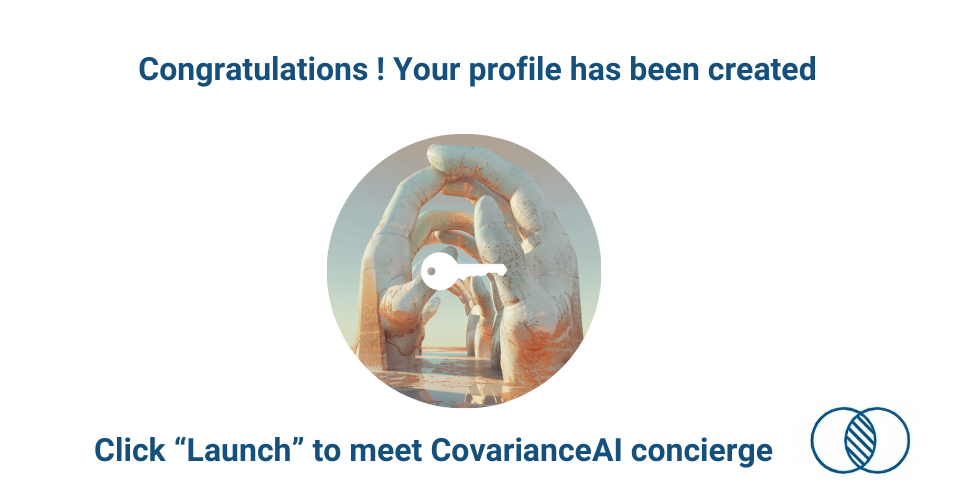
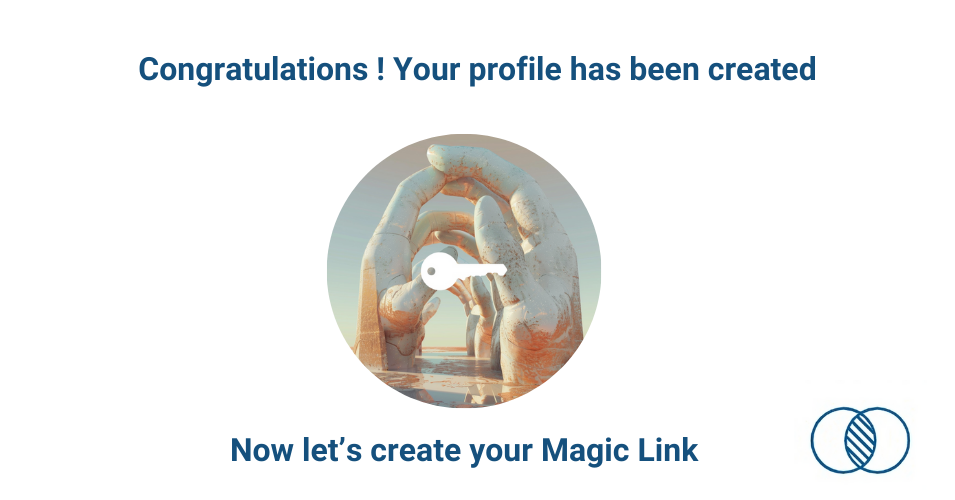
update frame images for coowncaster

Changed region(s): [[0.0911, 0.87, 0.8199, 0.93]]

diff --git a/app/frames/routes/profile/signup.tsx b/app/frames/routes/profile/signup.tsx
@@ -1,12 +1,13 @@
 /** @jsxImportSource @airstack/frog/jsx */
 import { Box, Heading, Text, VStack, vars } from "@/utils/ui";
-import { Button, Frog, TextInput } from "@airstack/frog";
+import { Button, FrameIntent, Frog, TextInput } from "@airstack/frog";
 import { checkAllowList, getFarQuestUserDetails, getFcUser } from "@/utils/farcaster";
 // import { redis } from "@/utils/redis";
 import { airtable } from "@/utils/airtable/client";
 import { addFarcasterInfo, checkFarcasterInfo } from "@/utils/airtable/farcaster";
 import config from "@/utils/config";
 import { ErrorImage } from "../../utils/errors";
+import { isDev } from "@/utils/misc";
 
 type State = {
   info: Record<string, unknown>
@@ -17,6 +18,7 @@ type State = {
   profileId?: string
   hasFCUrl: boolean
   hubs: string[]
+  magicLink?: string
   user?: Awaited<ReturnType<typeof getFarQuestUserDetails>>
 }
 
@@ -199,7 +201,7 @@ app.frame("/add_profile_data/:hub/:info", async (c) => {
   const state = deriveState(previousState => {
     if (inputText && !['start'].includes(info)) {
       const hubState = previousState.info[hub.code] as Record<string, unknown>
-      hubState[info === 'end' ? 'telegram' : info] = inputText
+      hubState[info === 'launch' ? 'telegram' : info] = inputText
       previousState.info[hub.code] = hubState
     }
 
@@ -226,7 +228,7 @@ app.frame("/add_profile_data/:hub/:info", async (c) => {
   let isError = false
   let isPartOfHub = false
 
-  const saveToDb = true// !isDev
+  const saveToDb = true//!isDev
   console.log(`add_profile_data/${hub.code} >> info: ${info}`, { hubInfo, state });
 
   try {
@@ -248,7 +250,7 @@ app.frame("/add_profile_data/:hub/:info", async (c) => {
           console.log(`existingContributorFromFid`, state.profileId, { Hubs: hubs, foundInHub, "User Groups": ugid, isPartOfHub, });
           const hasTg = existingContributorFromFid[0]?.fields?.Telegram ? true : false
           console.log(`hasTg`, hasTg);
-          if (ugid.length > 0) {
+          if (ugid?.length > 0) {
 
             const user = await airtable.user_group.find(ugid[0])
 
@@ -269,14 +271,14 @@ app.frame("/add_profile_data/:hub/:info", async (c) => {
               telegram: existingContributorFromFid[0]?.fields?.Telegram
             }
           }
-          info = 'end'
+          info = 'finished'
         }
         break checkExistingFarcasterUser
       }
     }
 
 
-    if (info === 'end') {
+    if (info === 'finished') {
       console.log(`add_profile_data/${hub.code} >> farcasterUrl: ` + `https://warpcast.com/${state.user.username}`);
       console.log(`add_profile_data/${hub.code} >> hubInfo: `, hubInfo);
 
@@ -295,15 +297,32 @@ app.frame("/add_profile_data/:hub/:info", async (c) => {
           console.log(`add_profile_data/${hub.code} >> User group not found for ${hubInfo?.email} in state. Checking Airtable...`);
           const existingUserGroup = await airtable.user_group.select({ filterByFormula: `{E-mail} = '${email}'`, maxRecords: 1 }).all()
           const user = existingUserGroup[0]
-          console.log(`add_profile_data/${hub.code} >> Adding new user group for ${hubInfo?.email}`, user?.id)
-          const userGroup = user ? user : await airtable.user_group.create({
-            "Name": hubInfo.name as string,
-            "E-mail": hubInfo.email as string,
-            // "Farcaster": `https://warpcast.com/${state.user.username}`
-          })
-          console.log(`add_profile_data/${hub.code} >> created user group for ${hubInfo?.email}`, userGroup.id);
 
-          state.userGroupId = userGroup.id
+          if (user) {
+            console.log(`add_profile_data/${hub.code} >> User group found for ${hubInfo?.email}`, user.id);
+            const userGroups = user.fields["User Groups"] as string[]
+            const foundInUserGroup = userGroups.find(ug => ug === hub.name)
+            if (!foundInUserGroup) {
+              console.log(`add_profile_data/${hub.code} >> Adding hub to existing user group for ${hubInfo?.email}`, user.id);
+              const updated = await airtable.user_group.update(user.id, {
+                "User Groups": [...userGroups, hub.name]
+              })
+              console.log(`add_profile_data/${hub.code} >> updated user group for ${hubInfo?.email}`, updated.fields.Hubs);
+            }
+            state.userGroupId = user.id
+          } else {
+            console.log(`add_profile_data/${hub.code} >> Creating new user group for ${hubInfo?.email}`);
+            const userGroup = user ? user : await airtable.user_group.create({
+              "Name": hubInfo.name as string,
+              "E-mail": hubInfo.email as string,
+              // "Farcaster": `https://warpcast.com/${state.user.username}`
+              "User Groups": [hub.name]
+
+            })
+            console.log(`add_profile_data/${hub.code} >> created user group for ${hubInfo?.email}`, userGroup.id);
+
+            state.userGroupId = userGroup.id
+          }
 
         } // end if userGroupId is empty
 
@@ -369,9 +388,39 @@ app.frame("/add_profile_data/:hub/:info", async (c) => {
         await addFarcasterInfo(fcUser, state.profileId!, state.hasFCUrl)
         // await redis.hset(`${hub}_contributors_${isDev ? 'test' : 'live'}:${fid}`, fcUser)
       }
+    } else if (info === 'launch') {
+      if (saveToDb) {
+        if (hub.code === 'coowncaster') {
+          // run a loop to check if magic link is generated. Max of 5 retries
+          // will repeat every 1 second
+          let retries = 0
+          while (!state.magicLink) {
+            if (retries > 5) {
+              break
+            }
+            try {
+              const usergroup = await airtable.user_group.find(state.userGroupId!)
+              if (usergroup) {
+                state.magicLink = usergroup.fields['Magic Link'] as string | undefined
+                if (state.magicLink) {
+                  console.log(`add_profile_data/${hub.code} >> Magic Link found for @${state.user.username}`, state.magicLink);
+                  break
+                }
+              }
+              retries++
+              // wait for 1 second
+              await new Promise(resolve => setTimeout(resolve, 1000))
+
+            } catch {
+              // 
+            }
+          }
+        }
+
+      }
     }
 
-    const checkError = !['end', 'start'].includes(info)
+    const checkError = !['launch', 'start'].includes(info)
     let emailExists = false
     let magicLink: string | undefined = undefined
     let image = ''
@@ -453,21 +502,21 @@ app.frame("/add_profile_data/:hub/:info", async (c) => {
 
     // 1. email (default)
     // 2. name
-    // 3. telegram username
-    // 4. end
+    // 3. telegram username (wip)
+    // 4. finished
+    // 5. launch
     switch (info) {
 
       case 'email': {
-        next = 'name'
+        next = hub.code === 'coowncaster' ? 'finished' : 'name'
         previous = 'start'
         placeholder = "John Doe"
         image = 'name'
-        label = "What's your full name?"
       }
         break
 
       case 'name': {
-        next = "end"
+        next = 'finished'
         previous = "email"
         label = "What's your telegram username?"
         image = 'telegram'
@@ -476,9 +525,13 @@ app.frame("/add_profile_data/:hub/:info", async (c) => {
       }
         break;
 
-      case 'end': {
-        label = "Thank you for providing your information."
-        sublabel = `Have a chat with our telegram bot for the group link and login information.`
+      case 'finished': {
+        image = 'magic-link'
+        next = 'launch'
+      }
+        break;
+
+      case 'launch': {
         image = 'finished'
       }
         break;
@@ -486,38 +539,52 @@ app.frame("/add_profile_data/:hub/:info", async (c) => {
       default: {
         next = 'email'
         placeholder = "email@example.com"
-        label = "What's your email address?"
         image = 'email'
-        sublabel = "This will be used to create your profile on the app so you can login."
       }
         break
     }
 
-    image = info === 'end' ? image : `${image}-${isError ? 'error' : 'input'}`
+    image = ['launch', 'finished'].includes(info) ? image : `${image}-${isError ? 'error' : 'input'}`
     console.log(`info: ${info}`, {
       next, previous, placeholder, label, sublabel, image
 
     });
 
+    const intents: FrameIntent[] = []
+
+    if (info !== 'launch') {
+      console.log(`add_profile_data/${hub.code} >> intents`, { next, previous, placeholder, label, sublabel, image });
+
+      if (next === 'launch' && hub.code === 'coowncaster') {
+        intents.push(
+          <Button action={`/add_profile_data/${hub.code}/${next}`}>Generate Magic Link</Button>
+        )
+      } else {
+        intents.push(...[
+          <TextInput placeholder={placeholder} />,
+          <Button action={`/add_profile_data/${hub.code}/${previous}`}>Back</Button>,
+          <Button action={`/add_profile_data/${hub.code}/${next}`}>Next</Button>
+        ])
+
+      }
+
+    } else {
+      if (hub.code === 'coowncaster') {
+
+        intents.push(
+          <Button.Link href={`${state.magicLink}`}>Launch app</Button.Link>
+        )
+      } else {
+        intents.push(
+          <Button.Link href={`https://t.me/CovarianceBot?start=magiclink_${state.userGroupId}`}>Launch Telegram Bot 🤖</Button.Link>
+        )
+      }
+    }
+
 
     return c.res({
       image: `/frame-slides/${hub.code}/${image}.png`,
-      intents: info !== 'end' ? [
-
-        <TextInput placeholder={placeholder} />,
-        // ...[previous !== '' ? 
-        <Button action={`/add_profile_data/${hub.code}/${previous}`}>Back</Button>,
-        //  :
-        // <Button.Reset>♻Reset</Button.Reset>,
-        // ],
-        <Button
-          action={`/add_profile_data/${hub.code}/${next}`}
-        >Next </Button>,
-
-      ] :
-        [
-          <Button.Link href={`https://t.me/CovarianceBot?start=magiclink_${state.userGroupId}`}>Launch 🤖</Button.Link>
-        ]
+      intents
     })
 
 
